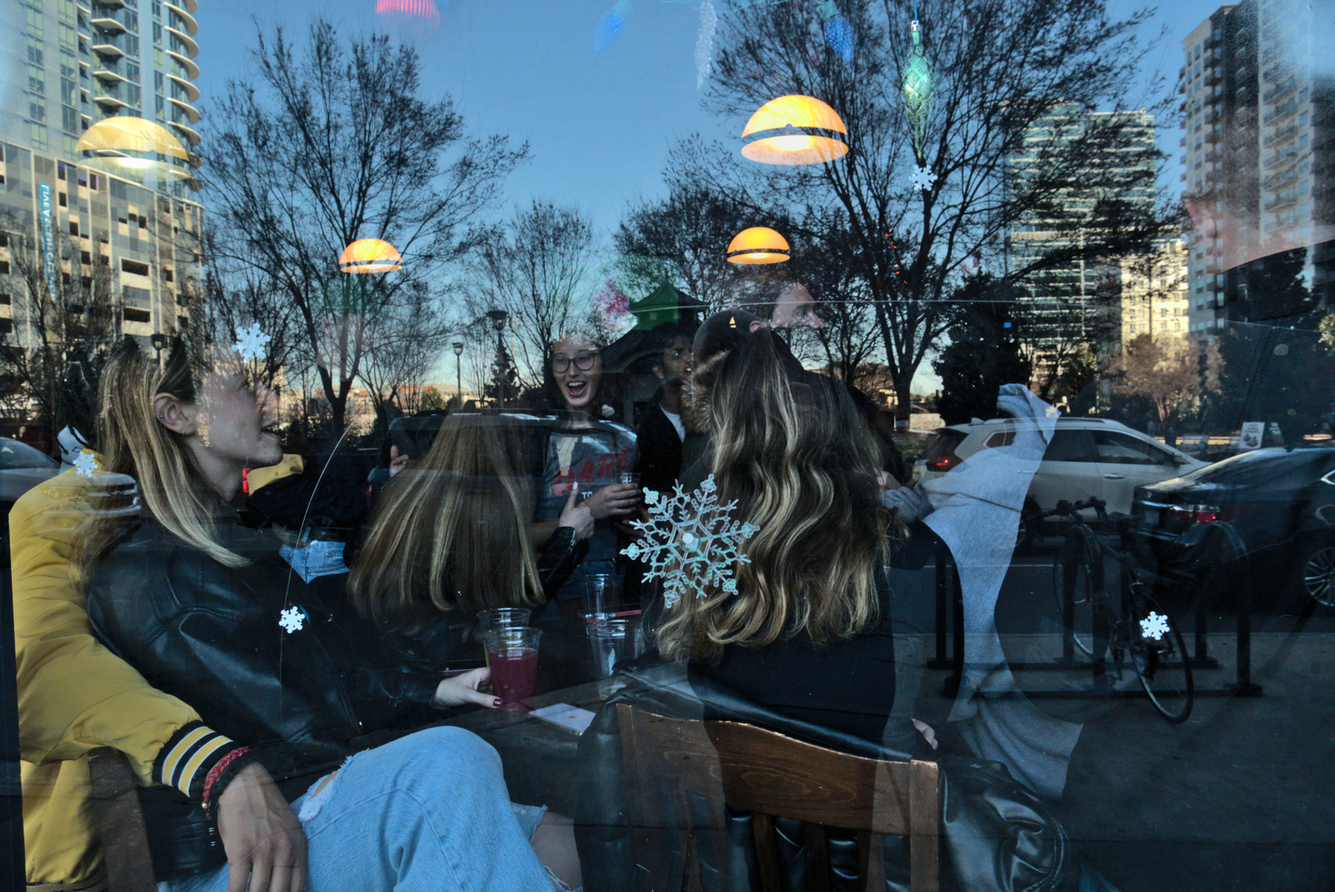
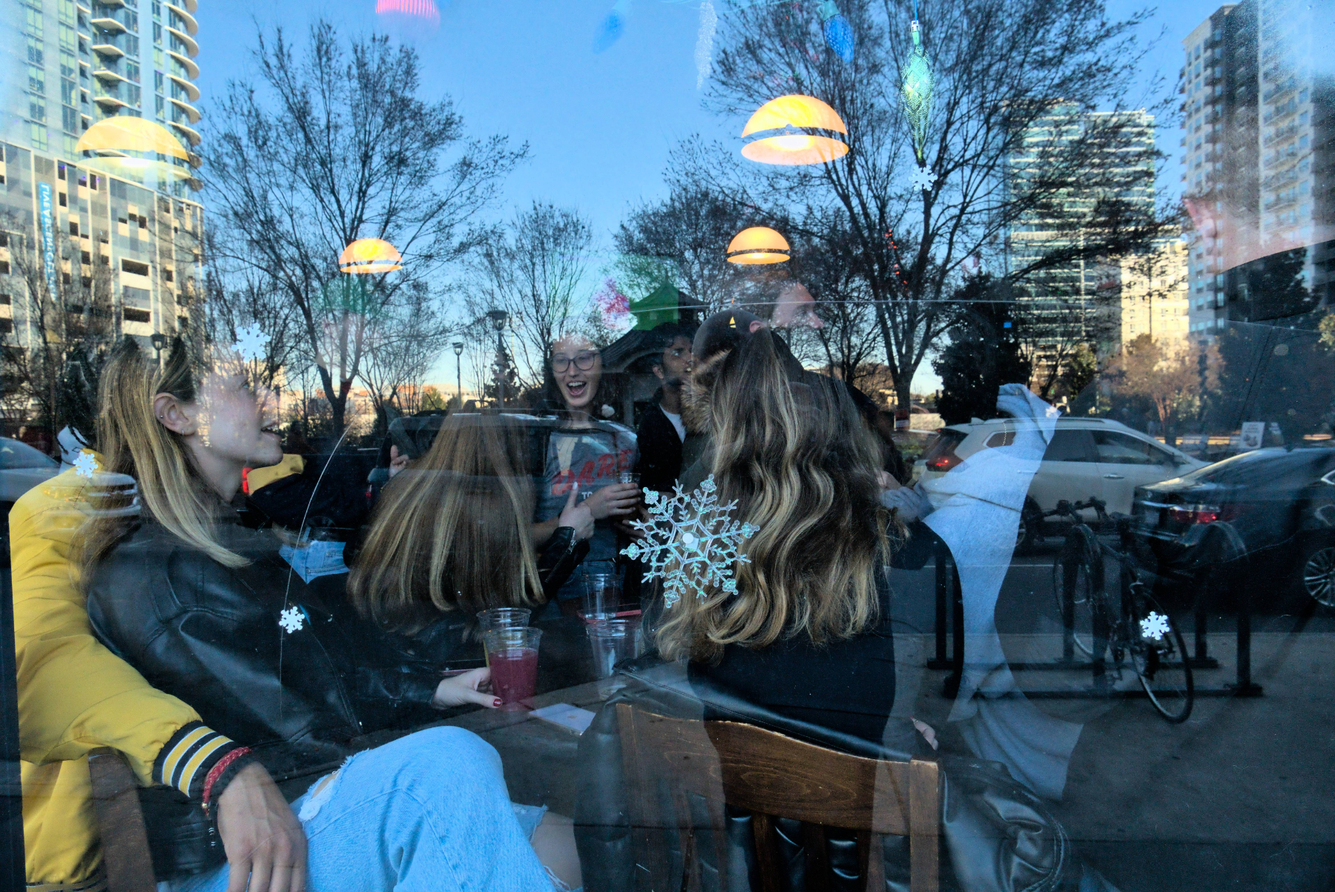
cleaned up images

diff --git a/streetusa.html b/streetusa.html
@@ -124,7 +124,7 @@
             <div class="col-sm-6 col-md-4 col-lg-3 col-xl-3 item" data-aos="fade" data-src="images/fulls/snapback.jpg" data-sub-html="<h4>Charlotte, North Carolina | 2023</h4><p>Sony a6600 + Tamron 17-70mm f/2.8 | 29mm f/3.2 1/320sec ISO-100</p>">
             <a href="#"><img src="images/thumbs/snapbackthumb.jpg" alt="IMage" class="img-fluid"></a>
           </div>
-            <div class="col-sm-6 col-md-4 col-lg-3 col-xl-3 item" data-aos="fade" data-src="images/fulls/nycselfie2.jpg" data-sub-html="<h4>New York City, New York | 2018</h4><p>Sony a6300 + Sony 18-105mm f/4 | 90mm f/4.5 1/160sec ISO-800</p>">
+            <div class="col-sm-6 col-md-4 col-lg-3 col-xl-3 item" data-aos="fade" data-src="images/fulls/nycselfie.jpg" data-sub-html="<h4>New York City, New York | 2018</h4><p>Sony a6300 + Sony 18-105mm f/4 | 90mm f/4.5 1/160sec ISO-800</p>">
             <a href="#"><img src="images/thumbs/nycselfiethumb.jpg" alt="IMage" class="img-fluid"></a>
           </div>
           <div class="col-sm-6 col-md-4 col-lg-3 col-xl-3 item" data-aos="fade" data-src="images/fulls/ashevillefriends.jpg" data-sub-html="<h4>Asheville, North Carolina | 2019</h4><p>Sony a6300 + Sony 18-105mm f/4 | 80mm f/4.5 1/125sec ISO-1000</p>">
